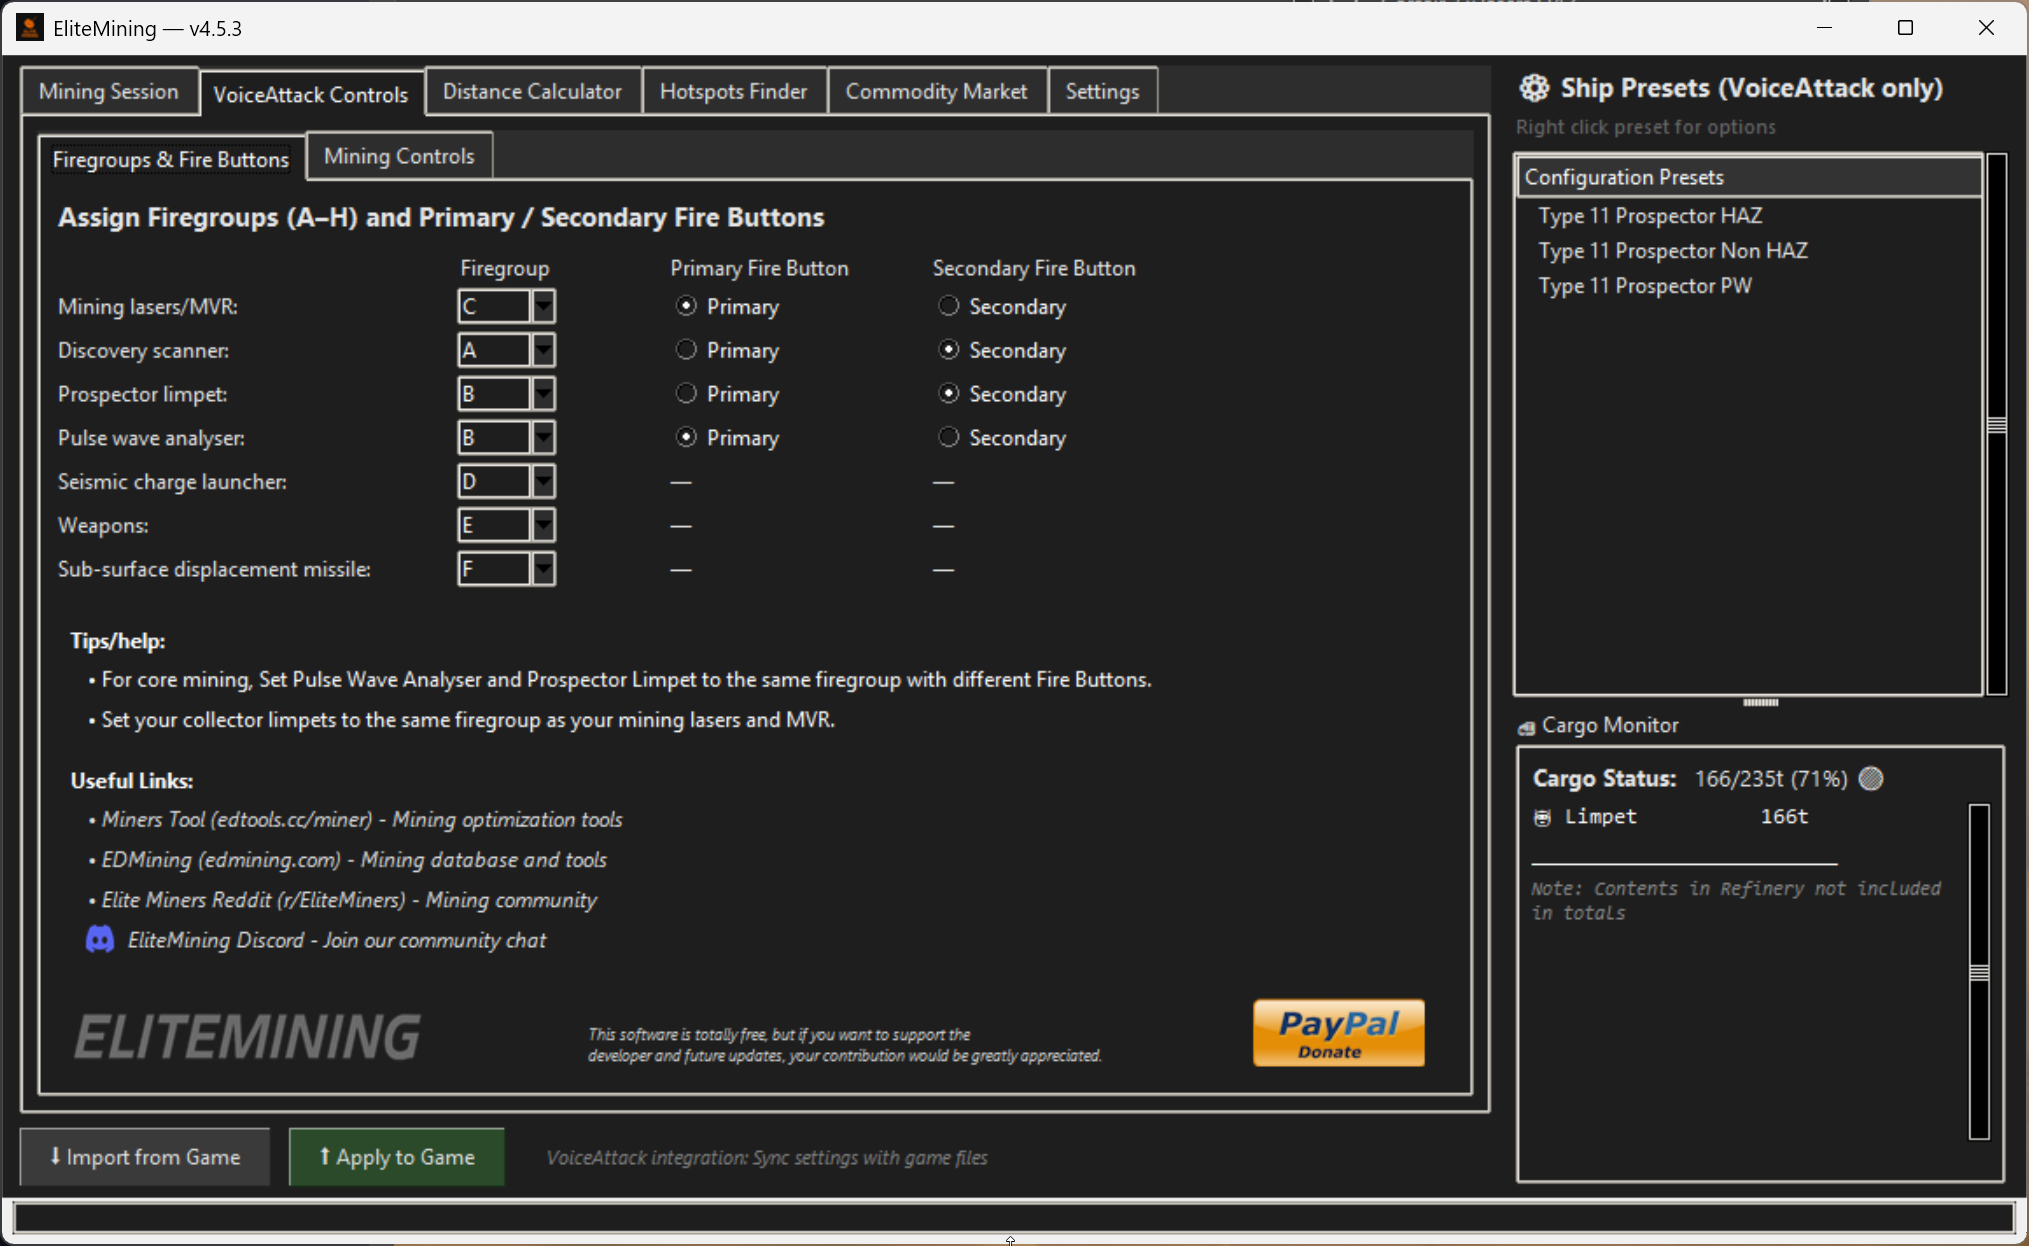
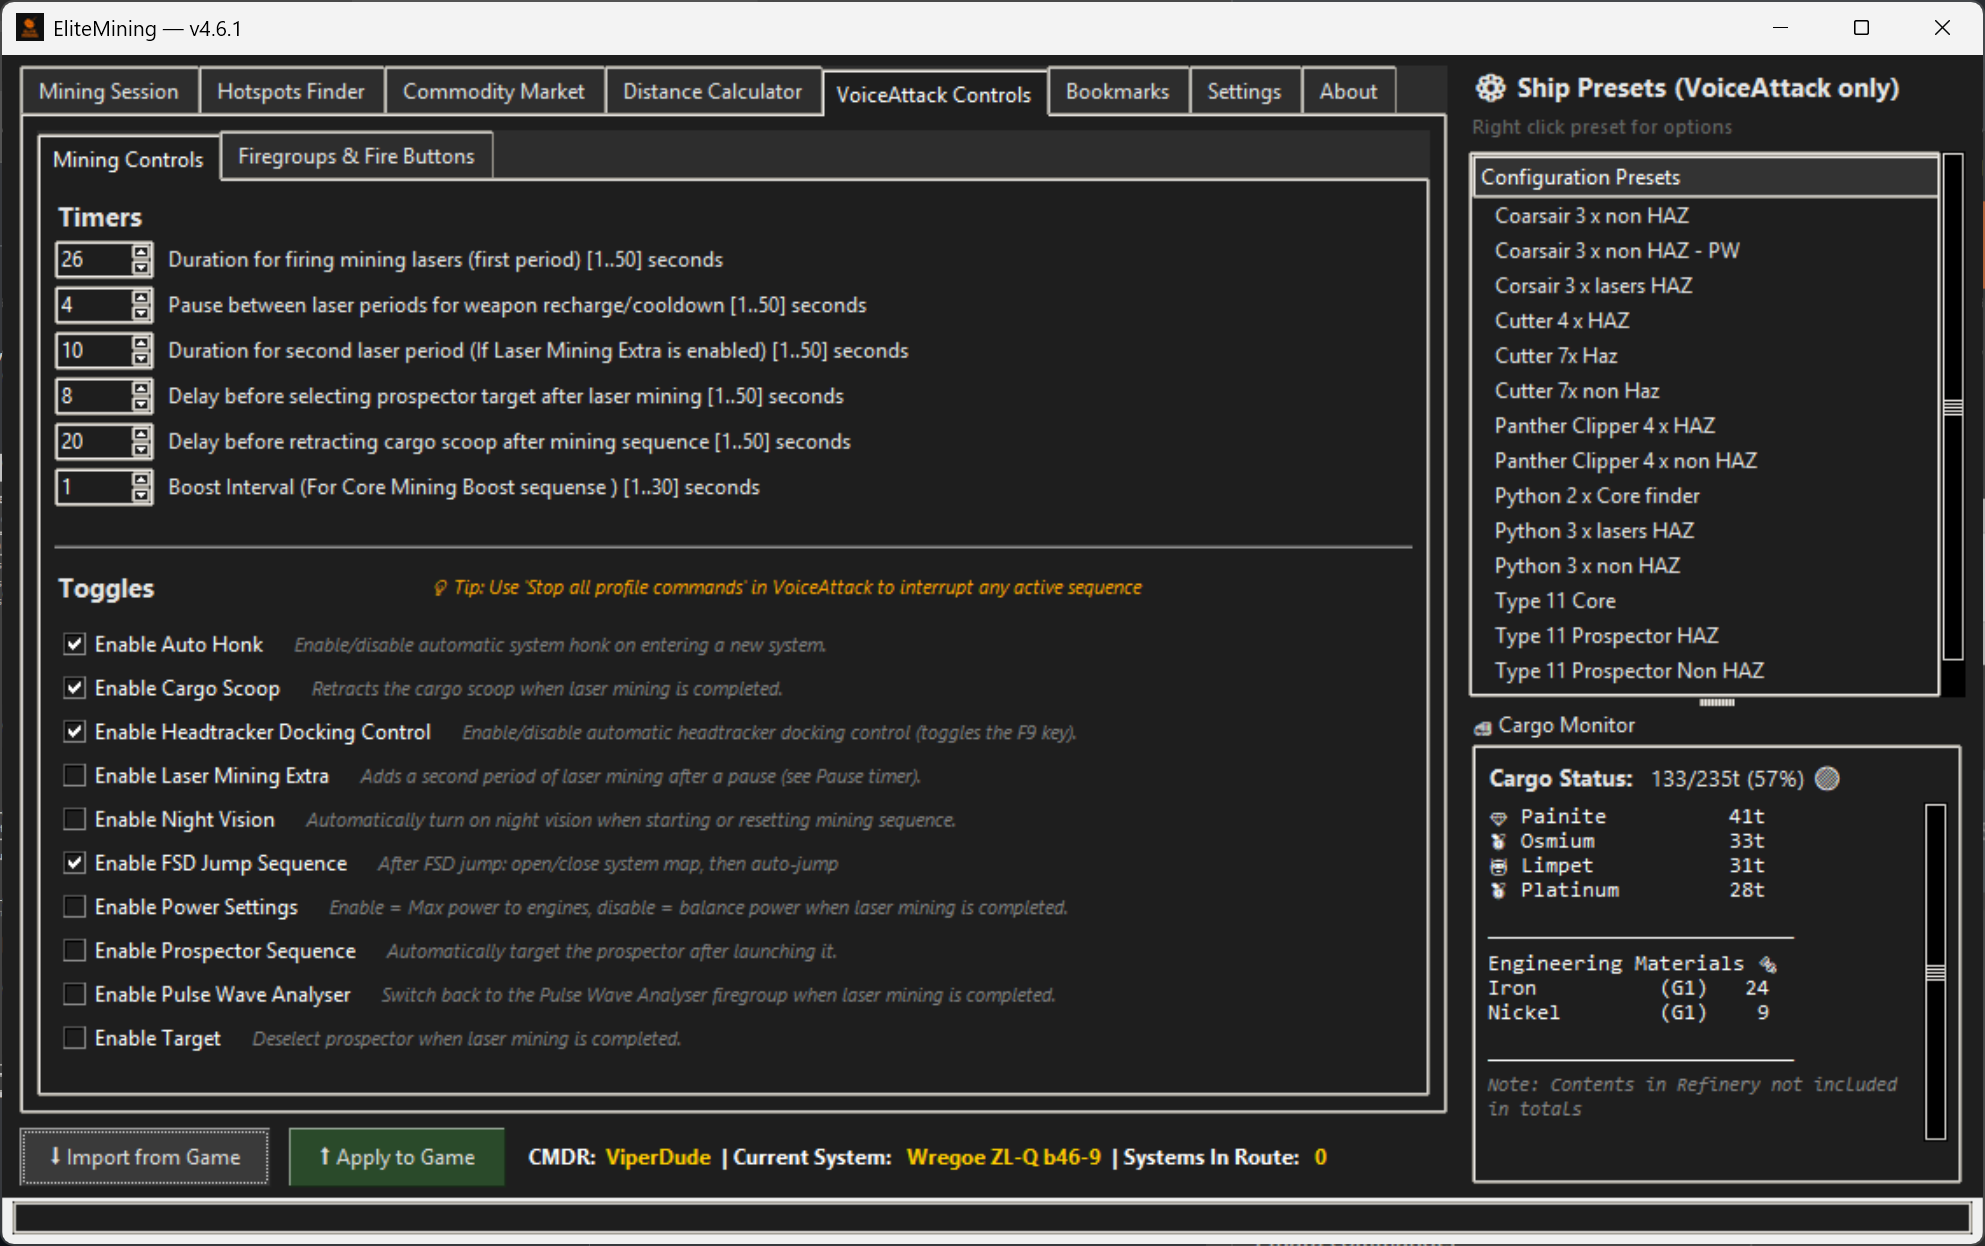
v4.6.1: Updated screenshots and patchnotes

Changed region(s): [[0.0, 0.0, 0.7184, 0.8844], [0.5935, 0.0, 1.0, 1.0], [0.0, 0.9149, 0.6559, 0.9454]]

diff --git a/docs/PATCHNOTES_v4.6.1.md b/docs/PATCHNOTES_v4.6.1.md
@@ -1,17 +1,19 @@
 # <img src="https://github.com/Viper-Dude/EliteMining/blob/main/app/Images/logo_multi.ico" width="32" height="32"> EliteMining
-**Release Date:** November 27, 2025
+**Release Date:** November 28, 2025
 
 ## New Features
 
 ### About Tab
 - Added new **About** tab with app info, version, and credits
 - Quick links to Discord, Reddit, GitHub, Documentation, and Report Bug
+- Added PayPal donation button with support message (anchored bottom-right)
 
 ### Status Bar
 - Added **CMDR name** display (reads from journal files)
 - Added **Current System** display with live updates
 - Added **Systems In Route** counter - updates in real-time when plotting/clearing routes
 - Improved button tooltips for Import/Apply buttons
+- Mixed colors: white labels with yellow values for better readability
 
 ### Distance Calculator
 - **Refresh Locations** button now updates both current system and fleet carrier from journals
@@ -19,6 +21,10 @@
 
 ### VoiceAttack Controls
 - Swapped tab order: Mining Controls now appears before Firegroups & Fire Buttons
+- Added important notice about firegroup automation requirements
+- Added new tips: "Clear and Jump" command usage, "Stop all profile commands" tip
+- Streamlined Useful Links section - removed external mining tool links
+- EliteMining logo anchored at bottom-left for consistent visibility
 
 ### Mining Session
 - Planet/Ring field no longer shows system name when at a star - only shows actual ring/planet names
